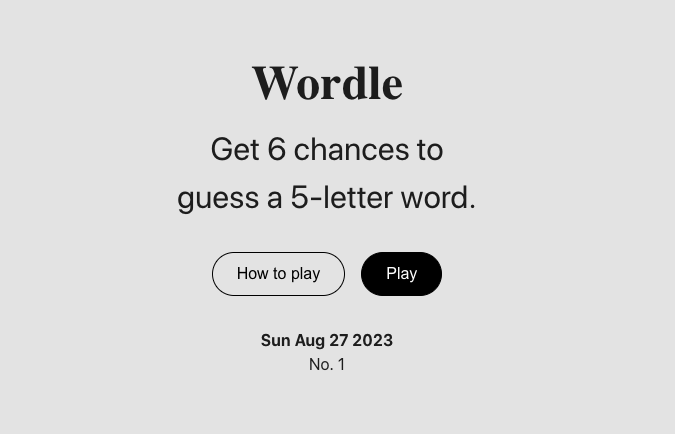
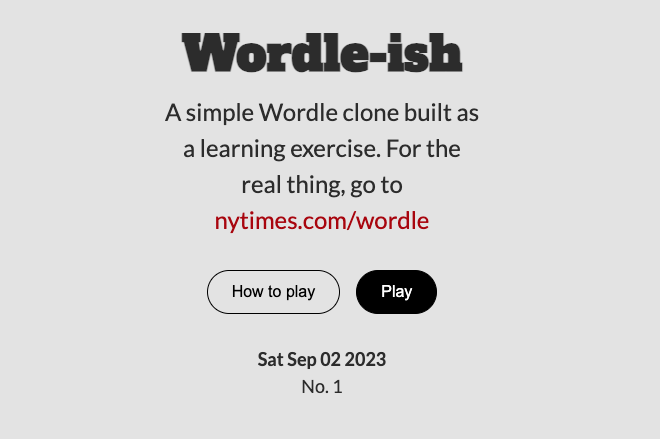
Moves wordle-clone blog post out of drafts

Changed region(s): [[0.2424, 0.0599, 0.7273, 0.5392], [0.303, 0.5691, 0.6667, 0.7189], [0.3636, 0.7488, 0.6061, 0.8986]]

diff --git a/src/routes/developer/projects/wordle-clone/part-one/components/Welcome.svelte b/src/routes/developer/projects/wordle-clone/part-one/components/Welcome.svelte
@@ -5,8 +5,8 @@
 </script>
 
 <div class="welcome-view">
-  <h1>Wordle</h1>
-  <p>Get 6 chances to guess a 5-letter word.</p>
+  <h1>Wordle-ish</h1>
+  <p>A simple Wordle clone built as a learning exercise. For the real thing, go to <a href="https://www.nytimes.com/games/wordle/index.html">nytimes.com/wordle</a></p>
   <div class="buttons">
     <button class="play" on:click={() => $showWelcome = false}>Play</button>
     <button on:click={() => {
@@ -39,7 +39,7 @@
   }
 
   p {
-    font-size: 2rem;
+    font-size: 1.5rem;
     margin: 0 0 2rem;
     max-width: 20rem;
     text-align: center;

diff --git a/src/routes/developer/projects/wordle-clone/part-one/components/Header.svelte b/src/routes/developer/projects/wordle-clone/part-one/components/Header.svelte
@@ -6,7 +6,7 @@
 
 <div class="header">
   <div class="nothing-to-see-here" />
-  <h1>Wordle</h1>
+  <h1>Wordle-ish</h1>
   <div class="header-buttons">
     <button
       class="header-btn"

diff --git a/src/routes/blog/posts/wordle-clone.md b/src/routes/blog/posts/wordle-clone.md
@@ -140,8 +140,8 @@ We now have all the components we'll need defined and imported, but we want to s
 </script>
 
 <div class="welcome-view">
-  <h1>Wordle</h1>
-  <p>Get 6 chances to guess a 5-letter word.</p>
+  <h1>Wordle-ish</h1>
+  <p>A simple Wordle clone built as a learning exercise. For the real thing, go to <a href="https://www.nytimes.com/games/wordle/index.html">nytimes.com/wordle</a></p>
   <div class="buttons">
     <button class="play">Play</button>
     <button>How to play</button>
